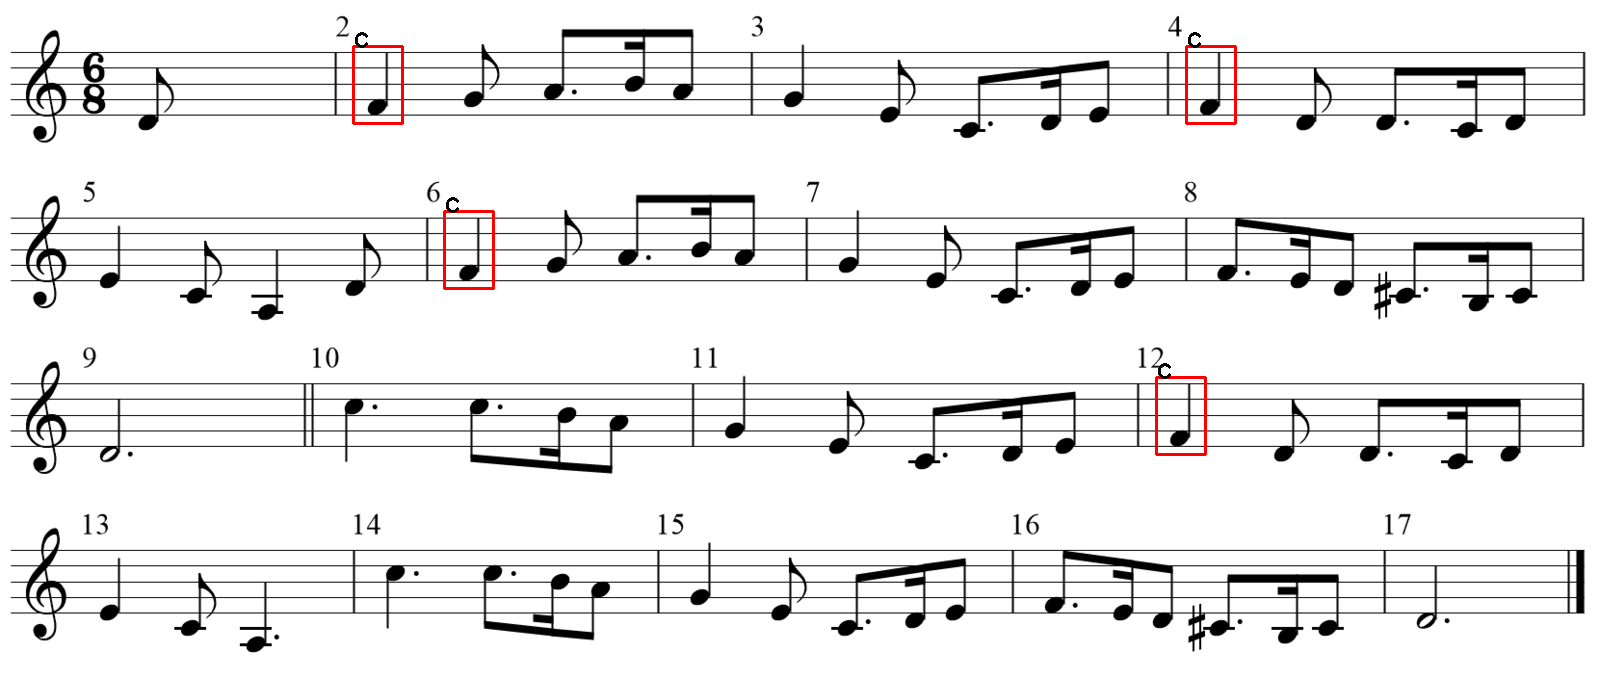
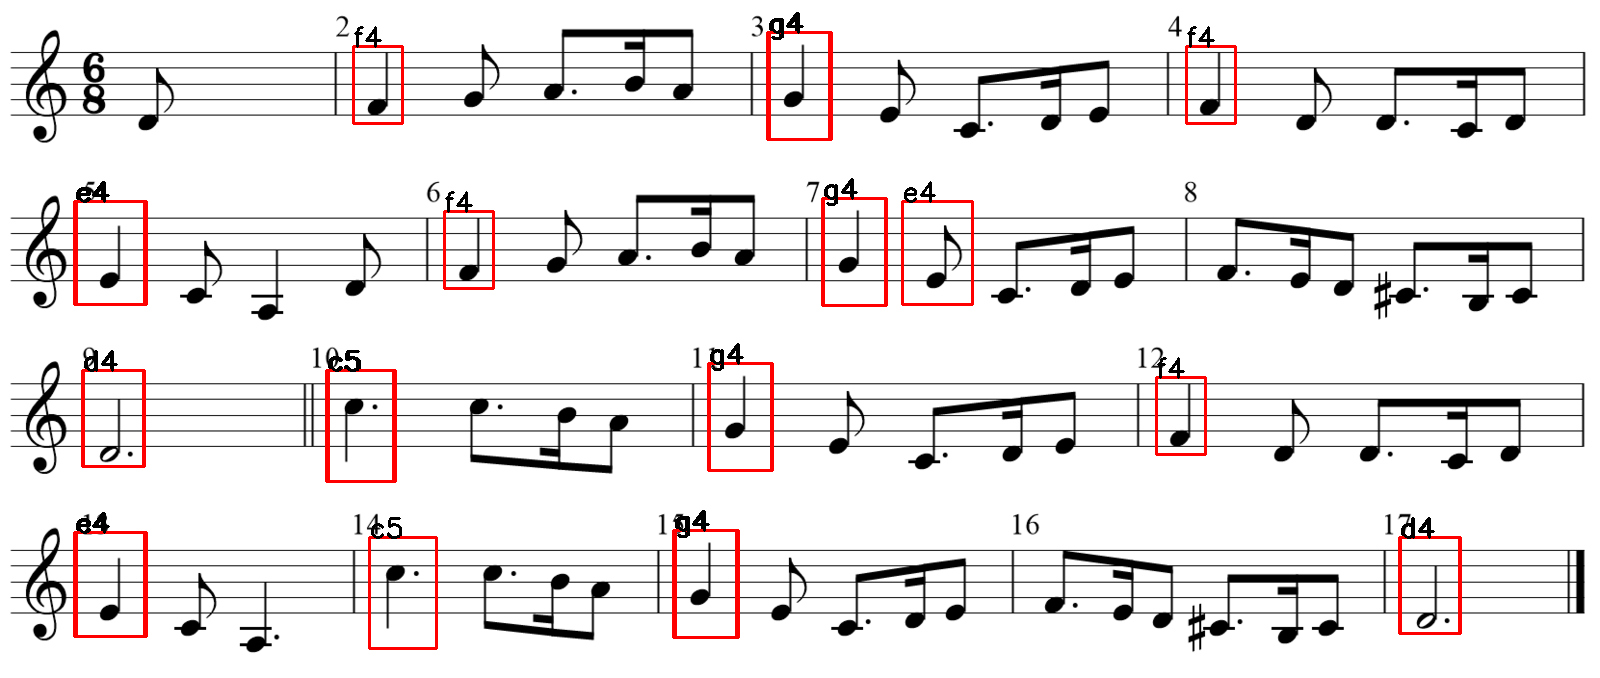
added 5 more templates with their _beats

diff --git a/multi.py b/multi.py
@@ -4,20 +4,30 @@ import argparse
 import imutils
 import glob
 import cv2
+import sys
+import subprocess
+
+def open_file(path):
+  cmd = {'linux':'eog', 'win32':'explorer', 'darwin':'open'}[sys.platform]
+  subprocess.run([cmd, path])
 
 # templates list
 note_files = [
-    "template/f.png"]
+    "template/d4_3.png",
+    "template/e4_1.png",
+    "template/f4_1.png",
+    "template/g4_1.png",
+    "template/c5_1_half.png",
+    "template/d5_1.png",]
 
 # description of templates above
 n = [
-	'c',
-	'd',
-	'e',
-	'f',
-	'g',
-	'a',
-	'b']
+  'd4',
+	'e4',
+	'f4',
+	'g4',
+  'c5',
+  'd5',]
 
 # image being analyzed
 image = cv2.imread("images/test.png")
@@ -71,3 +81,4 @@ for t in note_files:
     cv2.putText(image, n[i], (startX, startY), cv2.FONT_HERSHEY_SIMPLEX, 0.9, (0,0,0), 2)
   i = i + 1
 cv2.imwrite("multi-result.png", image)
+open_file('multi-result.png')
